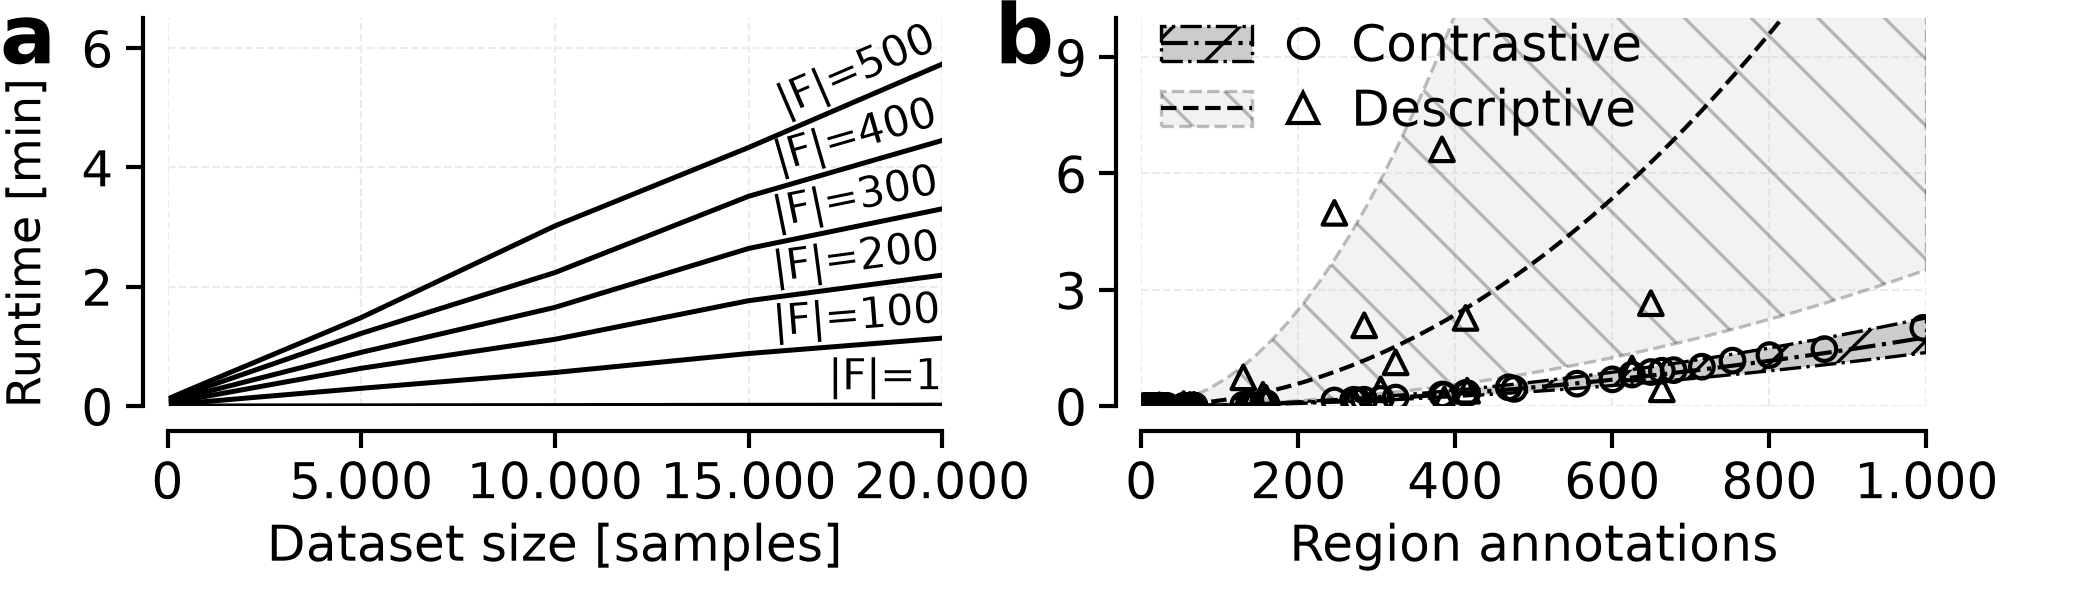
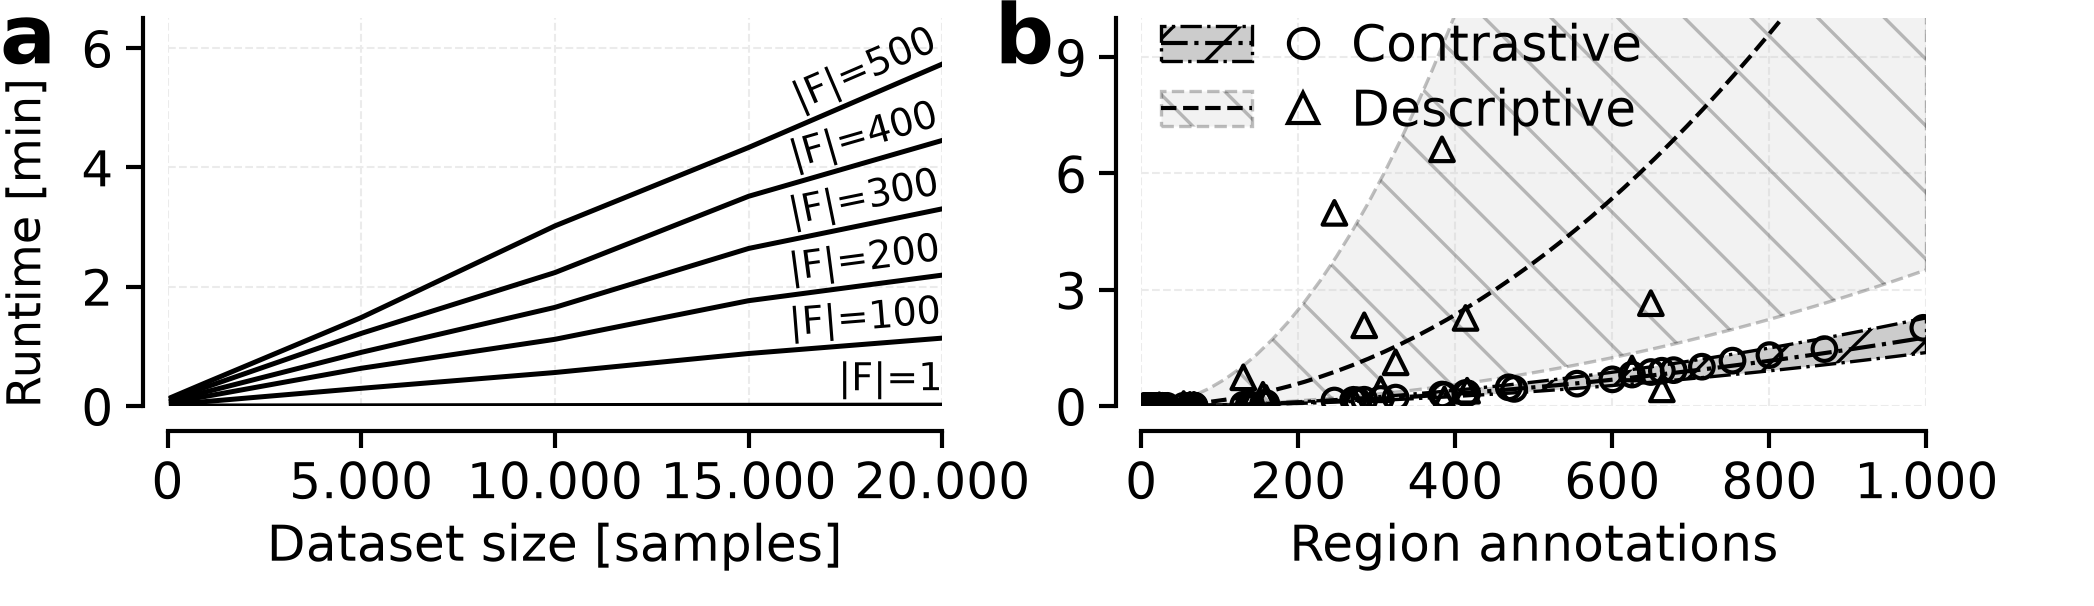
Shrink the line labels of the benchmark figure to 4.5 pt
The |F|=X labels on panel a drop from 5 pt to 4.5 pt so they sit lighter
against the lines; the paper's benchmarks.pdf is re-rendered from the script.

Changed region(s): [[0.3725, 0.1485, 0.4656, 0.5644], [0.3725, 0.0297, 0.4656, 0.1782], [0.3725, 0.5941, 0.4656, 0.6535]]

diff --git a/figure_scripts/fig12_benchmarks.py b/figure_scripts/fig12_benchmarks.py
@@ -135,7 +135,7 @@ def plot_samples(ax):
         ax.text(
             subset["N"].iloc[-1], subset["duration"].iloc[-1] + 6, f"|F|={key}",
             va="bottom", ha="right", rotation=angle, rotation_mode="anchor",
-            fontsize=FONTSIZE - 1, zorder=3,
+            fontsize=FONTSIZE - 1.5, zorder=3,
         )
 
     style_axis(ax)
